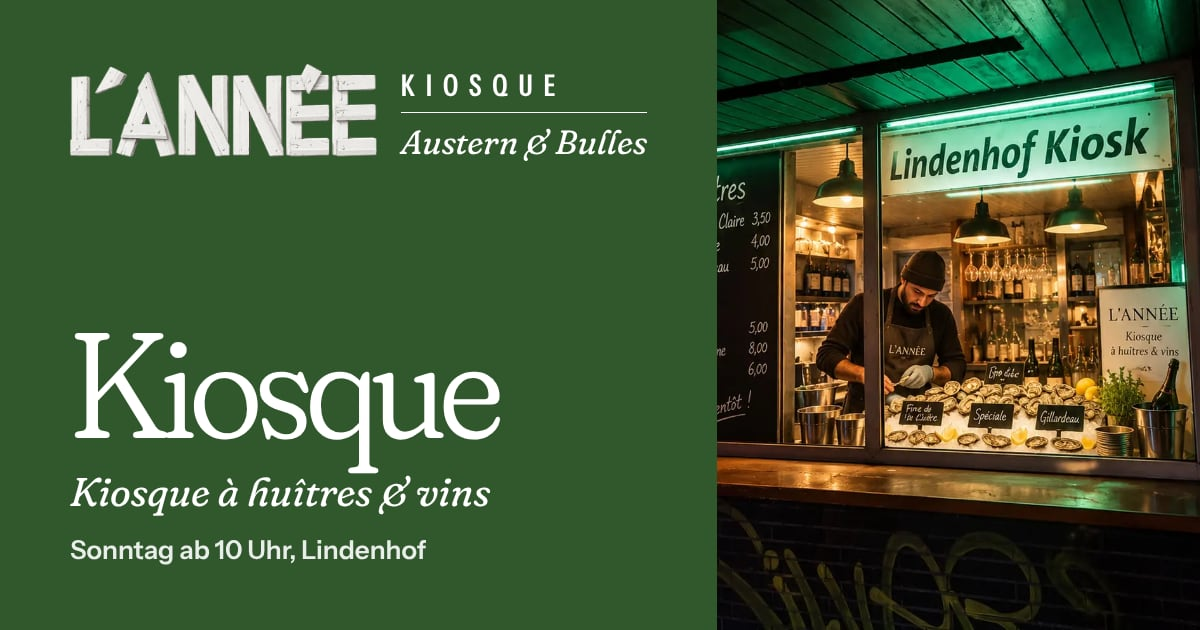
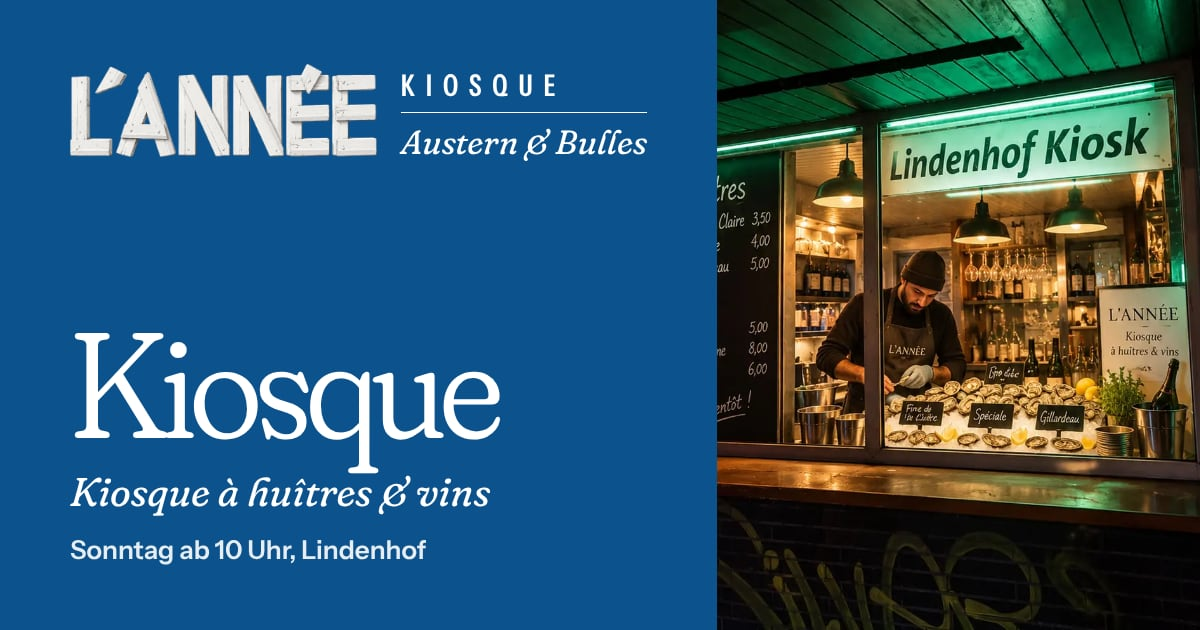
Farben: frische Blautöne statt Grün, drei Orte bleiben getrennt
Neue Palette (nur Blau, Meer/Gischt/Eis), gleiche Rollen wie vorher:
- Bleu nuit #082246: Text, Kopf-/Fußzeile, Garage (Abend)
- Océan #0C528C: Kiosque (Sonntag)
- Marée #167AA2: Marché (Morgen), Nebentext auf Weiß
- Embrun #6BBADA: Linien, Zeichnungen
- Écume #D1F6FE: Akzente, Licht in den Strichzeichnungen
Weiße Schrift auf allen drei Ortsfarben >= 4,8 : 1. CSS-Variablen
--palm/--lime heißen jetzt --embrun/--ecume. Favicons und Share-Bilder
neu erzeugt. Styleguide, CLAUDE.md und Konzept angepasst.

Claude-Session: https://claude.ai/code/session_0135uWaFw3LMVPqJsXwizr86

diff --git a/src/styles/02-base.css b/src/styles/02-base.css
@@ -6,8 +6,8 @@
   --font-display: 'Fraunces', 'Iowan Old Style', 'Palatino Linotype', Palatino, Georgia, serif;
   --font-text: 'Instrument Sans', ui-sans-serif, system-ui, -apple-system, 'Segoe UI', Roboto, sans-serif;
   --phi: 1.618;
-  --line: color-mix(in srgb, var(--palm) 50%, transparent);
-  --line-strong: var(--palm);
+  --line: color-mix(in srgb, var(--embrun) 50%, transparent);
+  --line-strong: var(--embrun);
   --header-h: 4.5rem;
   --ease-out: cubic-bezier(0.16, 1, 0.3, 1);
   --ease-in-out: cubic-bezier(0.7, 0, 0.2, 1);
@@ -123,7 +123,7 @@ button {
 }
 
 ::selection {
-  background: var(--lime);
+  background: var(--ecume);
   color: var(--ink);
 }
 
@@ -194,18 +194,18 @@ main:focus {
   background: var(--bg);
   color: var(--fg);
 }
-.theme-garage { --bg: var(--garage); --fg: var(--blanc); --loc: var(--blanc); --soft: var(--lime); }
-.theme-kiosque { --bg: var(--kiosque); --fg: var(--blanc); --loc: var(--blanc); --soft: var(--lime); }
-.theme-marche { --bg: var(--marche); --fg: var(--blanc); --loc: var(--blanc); --soft: var(--lime); }
-.theme-ink { --bg: var(--ink); --fg: var(--blanc); --loc: var(--lime); }
+.theme-garage { --bg: var(--garage); --fg: var(--blanc); --loc: var(--blanc); --soft: var(--ecume); }
+.theme-kiosque { --bg: var(--kiosque); --fg: var(--blanc); --loc: var(--blanc); --soft: var(--ecume); }
+.theme-marche { --bg: var(--marche); --fg: var(--blanc); --loc: var(--blanc); --soft: var(--ecume); }
+.theme-ink { --bg: var(--ink); --fg: var(--blanc); --loc: var(--ecume); }
 
-.theme-garage-text { --loc: var(--garage); --loc-pale: var(--lime); }
-.theme-kiosque-text { --loc: var(--kiosque); --loc-pale: var(--lime); }
-.theme-marche-text { --loc: var(--marche); --loc-pale: var(--lime); }
+.theme-garage-text { --loc: var(--garage); --loc-pale: var(--ecume); }
+.theme-kiosque-text { --loc: var(--kiosque); --loc-pale: var(--ecume); }
+.theme-marche-text { --loc: var(--marche); --loc-pale: var(--ecume); }
 
-.page--garage { --loc: var(--garage); --loc-pale: var(--lime); --loc-text: var(--garage); }
-.page--kiosque { --loc: var(--kiosque); --loc-pale: var(--lime); --loc-text: var(--kiosque); }
-.page--marche { --loc: var(--marche); --loc-pale: var(--lime); --loc-text: var(--marche); }
+.page--garage { --loc: var(--garage); --loc-pale: var(--ecume); --loc-text: var(--garage); }
+.page--kiosque { --loc: var(--kiosque); --loc-pale: var(--ecume); --loc-text: var(--kiosque); }
+.page--marche { --loc: var(--marche); --loc-pale: var(--ecume); --loc-text: var(--marche); }
 
 /* Seitenübergänge (Chrome, Edge, Safari 18.2+) ----------------------------- */
 

diff --git a/src/styles/05-pages.css b/src/styles/05-pages.css
@@ -6,8 +6,8 @@
 /*
  * Ein Dach, drei Orte: Das Stimmungsbild füllt den ersten Bildschirm. Darauf steht
  * L’ANNÉE in Weiß mit „Austern & Bulles“, unten die drei Orte als Farbbänder
- * (Garage Evergreen, Kiosque Hunter Green, Marché Fern) – jedes ein Link mit
- * Name, Zusatz, Zeit und Ort (ohne Uhren). Beim Scrollen schrumpft das weiße Logo in die grüne
+ * (Garage Bleu nuit, Kiosque Océan, Marché Marée) – jedes ein Link mit
+ * Name, Zusatz, Zeit und Ort (ohne Uhren). Beim Scrollen schrumpft das weiße Logo in die blaue
  * Kopfzeile.
  */
 
@@ -64,7 +64,7 @@
 .hero__bg img {
   object-position: var(--hero-focus, 62% 50%);
 }
-/* Evergreen-Schleier: links oben für Logo und Text, unten als Übergang in die Bänder */
+/* Schleier in Bleu nuit: links oben für Logo und Text, unten als Übergang in die Bänder */
 .hero__stage::before {
   content: '';
   position: absolute;
@@ -244,7 +244,7 @@
 }
 .hero-place__link:hover,
 .hero-place__link:focus-visible {
-  box-shadow: inset 0 0.3rem 0 var(--lime);
+  box-shadow: inset 0 0.3rem 0 var(--ecume);
 }
 .hero-place__arrow {
   grid-area: arrow;
@@ -320,7 +320,7 @@
 /*
  * Jetzt geöffnet / Als Nächstes (live, aus denselben Daten wie der Wochenplan),
  * Zur Karte, Wo wir sind. Gleich gebaut: Kopfzeile in gesperrten Versalien,
- * großer Titel, eine Zeile Text, Pfeil. Weiß mit grüner Linie; beim Darüberfahren Lime Cream.
+ * großer Titel, eine Zeile Text, Pfeil. Weiß mit blauer Linie; beim Darüberfahren Écume.
  */
 .wayfinder {
   margin-bottom: var(--space-xl);
@@ -354,7 +354,7 @@
 }
 .wayfinder__card:hover,
 .wayfinder__card:focus-visible {
-  background: var(--lime);
+  background: var(--ecume);
 }
 .wayfinder__eyebrow {
   grid-area: eyebrow;
@@ -523,7 +523,7 @@
   inset: 0 0 auto;
   height: var(--mini-h);
   border-radius: 1rem;
-  background: var(--lime);
+  background: var(--ecume);
 }
 .plan__slots {
   list-style: none;
@@ -963,7 +963,7 @@
 
 /* Ortsseiten ---------------------------------------------------------------- */
 
-/* Kopf auf der Farbe des Ortes (seit 03.11.2026): Das weiße Holz-Logo im Lockup gehört auf Grün.
+/* Kopf auf der Farbe des Ortes (seit 03.11.2026): Das weiße Holz-Logo im Lockup gehört auf Blau.
    Schrift, Strichzeichnung und Linien sind weiß (theme-garage/-kiosque/-marche). */
 .loc-hero {
   container-type: inline-size;
@@ -1833,7 +1833,7 @@
   display: block;
   width: 4.5rem;
   height: 3.5rem;
-  color: var(--palm);
+  color: var(--embrun);
 }
 .oyster__svg {
   display: block;

diff --git a/src/styles/03-components.css b/src/styles/03-components.css
@@ -175,7 +175,7 @@
 
 /* Die drei Orte als Strichzeichnungen (über den Lockups) ------------------------
  * Linie in currentColor; ist der Ort geöffnet (.is-lit), leuchten die Fenster in
- * Lime Cream, und ein Lichtkegel fällt vor dem Haus auf die Straße.
+ * Écume, und ein Lichtkegel fällt vor dem Haus auf die Straße.
  * Breite = Breite des Logos im Lockup bei gleicher Schriftgröße.
  */
 .venue-art {
@@ -201,9 +201,9 @@
 .venue-art__glass,
 .venue-art__halo,
 .venue-art__soft {
-  fill: var(--lime);
+  fill: var(--ecume);
 }
-.venue-art__stop { stop-color: var(--lime); stop-opacity: 0.55; }
+.venue-art__stop { stop-color: var(--ecume); stop-opacity: 0.55; }
 .venue-art__stop--end { stop-opacity: 0; }
 .venue-art__glass,
 .venue-art__halo,
@@ -220,7 +220,7 @@
 .venue-art.is-lit .venue-art__halo { opacity: 0.8; }
 .venue-art.is-lit .venue-art__soft { opacity: 0.28; }
 .venue-art.is-lit .venue-art__pool { opacity: 1; }
-.venue-art.is-lit .venue-art__bulbs > * { fill: var(--lime); }
+.venue-art.is-lit .venue-art__bulbs > * { fill: var(--ecume); }
 @media (prefers-reduced-motion: no-preference) {
   /* Licht geht an wie eine alte Leuchtröhre: kurz flackern, dann ruhig */
   .venue-art.is-lit .venue-art__glass,
@@ -237,7 +237,7 @@
 /* Bilder -------------------------------------------------------------------- */
 
 .pic {
-  background: var(--palm); /* Platzhalter, bis das Foto geladen ist */
+  background: var(--embrun); /* Platzhalter, bis das Foto geladen ist */
   overflow: hidden;
 }
 .pic img {
@@ -269,7 +269,7 @@
   line-height: 1.1;
   letter-spacing: 0.02em;
 }
-/* Grüne Fläche, weiße Schrift */
+/* Blaue Fläche, weiße Schrift */
 .tag--garage { background: var(--garage); color: var(--blanc); }
 .tag--kiosque { background: var(--kiosque); color: var(--blanc); }
 .tag--marche { background: var(--marche); color: var(--blanc); }
@@ -355,7 +355,7 @@
   margin: 0;
   padding: 0.6em 1.15em 0.6em 0.95em;
   border-radius: 1.4em;
-  background: var(--lime);
+  background: var(--ecume);
   color: var(--ink);
   font-size: 0.9375rem;
   line-height: 1.35;

diff --git a/src/styles/04-layout.css b/src/styles/04-layout.css
@@ -5,7 +5,7 @@
 
 /* Kopfzeile ------------------------------------------------------------------ */
 
-/* Grüne Kopfzeile (Evergreen) mit weißem Logo und weißer Schrift */
+/* Blaue Kopfzeile (Bleu nuit) mit weißem Logo und weißer Schrift */
 .site-header {
   position: sticky;
   top: 0;
@@ -107,10 +107,10 @@
   color: var(--blanc);
 }
 .nav__link:hover {
-  color: var(--lime);
+  color: var(--ecume);
 }
 .nav__link[aria-current='page'] {
-  color: var(--lime);
+  color: var(--ecume);
   border-bottom-color: currentColor;
 }
 
@@ -136,7 +136,7 @@
 }
 .lang a:hover {
   color: var(--ink);
-  background: var(--lime);
+  background: var(--ecume);
 }
 .lang a[aria-current='true'] {
   color: var(--blanc);
@@ -162,7 +162,7 @@
   transition: color 0.2s;
 }
 .menu-toggle:hover {
-  color: var(--lime);
+  color: var(--ecume);
 }
 .menu-toggle__bars {
   position: relative;
@@ -271,7 +271,7 @@
   display: block;
   margin: 0 0 var(--space-l);
 }
-/* Das Holz-Logo groß über die volle Breite, weiß auf Evergreen */
+/* Das Holz-Logo groß über die volle Breite, weiß auf Bleu nuit */
 .site-footer__logo {
   width: 100%;
   height: auto;

diff --git a/CLAUDE.md b/CLAUDE.md
@@ -9,11 +9,11 @@ Website der Dachmarke L’ANNÉE (Austern & Bulles, Mannheim) mit Garage, Kiosqu
 - Die Live-Domain `1898.ma` nicht anfassen (Domains, DNS, Weiterleitungen), außer der Nutzer verlangt es ausdrücklich.
 - Inhalte immer in allen drei Sprachen pflegen: `src/content/i18n/{de,fr,en}.mjs`. Deutsch ist führend.
 - Keine Cookies, kein Tracking, keine externen Requests (CSP in `vercel.json`). Karten nur als Links.
-- **Nur Grün:** Evergreen #132A13, Hunter Green #31572C, Fern #4F772D, Palm Leaf #90A955, Lime Cream #ECF39E und Weiß. Entweder grüne Fläche mit weißer Schrift oder weiße Fläche mit grüner Schrift; nichts Schwarzes, nichts Graues (statt Schwarz: Evergreen). In CSS nur die Variablen aus `tokens.mjs` (`--ink`, `--garage`, `--kiosque`, `--marche`, `--brand`, `--muted`, `--palm`, `--lime`, `--blanc`), keine festen Farbwerte.
+- **Nur Blau** (Vorgabe 03.11.2026, ersetzt „nur Grün“): frische Meeres-Blautöne Bleu nuit #082246, Océan #0C528C, Marée #167AA2, Embrun #6BBADA, Écume #D1F6FE und Weiß. Entweder blaue Fläche mit weißer Schrift oder weiße Fläche mit blauer Schrift; nichts Schwarzes, nichts Graues (statt Schwarz: Bleu nuit). **Die drei Orte bleiben klar getrennt:** Garage = Bleu nuit (Abend), Kiosque = Océan (Sonntag), Marché = Marée (Morgen). Embrun nur für Linien/Zeichnungen, Écume für Akzente (aktiv/hover, Licht). In CSS nur die Variablen aus `tokens.mjs` (`--ink`, `--garage`, `--kiosque`, `--marche`, `--brand`, `--muted`, `--embrun`, `--ecume`, `--blanc`), keine festen Farbwerte. Grün kommt nicht mehr vor.
 - **Slogan am Logo immer übersetzt** (Vorgabe 01.11.2026): DE „Austern & Bulles“, FR „Huîtres & Bulles“, EN „Oysters & Bulles“ (`SITE.taglines`; gilt für Kopfzeile, Hero und Lockups). „Bulles“ bleibt französisch, nie „Bläschen“.
 - **Keine Uhren (Signets) mehr – nirgends** (Vorgabe 03.11.2026): nicht in Navigation, Fußzeile, Zitaten, Karte (Filter, Tags), Kontakt, „Weitere Orte“, Styleguide oder auf den Share-Bildern. Die Komponente `signet()` ist gelöscht; nicht wieder einführen.
-- **Logo = weiße Holzbuchstaben** (Vorgabe 03.11.2026): freigestelltes Rasterbild, Quelle `assets-src/logo-lannee-holz.png`, Varianten mit `npm run images -- logo-lannee` (schneidet zu, macht die Buchstaben voll deckend, AVIF/WebP 240–1563 px). Eingebunden über `logo()` in `components.mjs` als `<picture>`; `src/icons/logo-raw.svg` liefert nur noch das Favicon. **Weiß gehört auf Grün:** Das Logo steht nie auf Weiß – Kopfzeile, Hero, Fußzeile und alle Lockups (auch die Köpfe der Ortsseiten) liegen auf Grün. Die Wander-Animation (`initLogoMorph()`) bleibt wie sie ist.
-- **Kopfzeile grün** (Evergreen) mit **weißem Logo** und weißer Navigation (aktiv/hover Lime Cream); auch das große Logo im Hero ist weiß (Vorgabe 31.10.2026). Das mobile Menü bleibt weiß mit grüner Schrift.
+- **Logo = weiße Holzbuchstaben** (Vorgabe 03.11.2026): freigestelltes Rasterbild, Quelle `assets-src/logo-lannee-holz.png`, Varianten mit `npm run images -- logo-lannee` (schneidet zu, macht die Buchstaben voll deckend, AVIF/WebP 240–1563 px). Eingebunden über `logo()` in `components.mjs` als `<picture>`; `src/icons/logo-raw.svg` liefert nur noch das Favicon. **Weiß gehört auf Blau:** Das Logo steht nie auf Weiß – Kopfzeile, Hero, Fußzeile und alle Lockups (auch die Köpfe der Ortsseiten) liegen auf Blau. Die Wander-Animation (`initLogoMorph()`) bleibt wie sie ist.
+- **Kopfzeile blau** (Bleu nuit) mit **weißem Logo** und weißer Navigation (aktiv/hover Écume); auch das große Logo im Hero ist weiß (Vorgabe 31.10.2026). Das mobile Menü bleibt weiß mit blauer Schrift.
 - **Kopfzeile:** Neben dem Logo steht der Slogan (feine Linie dazwischen) – auf allen Bildschirmbreiten. Auf der Startseite wandern großes Logo und Slogan beim Scrollen skaliert in ihre Endposition in der Kopfzeile (Logo · Linie · Slogan), im Vordergrund über allem; angekommen blendet die Trennlinie ein (Vorgabe 01.11.2026, bestätigt 03.11.2026).
 - **Menü-Schalter mobil = nur Hamburger** (drei Striche, weiß, ohne Text „Menü“ und ohne Rahmen; Vorgabe 03.11.2026). „Menü“ steht nur unsichtbar für Screenreader im Link.
 - **Hinweis „Diese Webseite dient zur reinen Darstellung und ist fiktiv.“ = schlichte Textzeile ganz unten in der Fußzeile** (unter einer feinen Linie; Vorgabe 03.11.2026). Kein Kreis/Störer, nichts Fixiertes, das über dem Inhalt schwebt.
@@ -22,9 +22,9 @@ Website der Dachmarke L’ANNÉE (Austern & Bulles, Mannheim) mit Garage, Kiosqu
 - **Fußzeile ohne „Gestaltung: Grafitecture“** (Vorgabe 01.11.2026); die Agentur steht nur im Grafitecture-Feld in Impressum und Datenschutz.
 - **Wochenplan** zeigt nur Tage mit Öffnung, keine Zeile „Mo – Do geschlossen“ (Vorgabe 01.11.2026).
 - **Hero = Filmsequenz** (Higgsfield AI, Heimkino-Look 50er/60er, ruhig, Zeitlupe) aus `public/film/lannee-film-{quer,hoch}.{webm,mp4}`, Standbild `hero-film`; darauf Logo, Slogan und die Headline groß und linksbündig, unten die drei Ortsbänder leicht transparent und ohne Uhren. Scroll-Inszenierung: Die Bühne bleibt stehen, alle Inhalte blenden aus, der Film steht eine Weile voll im Bild, dann scrollt er weg (`initHeroScroll()`). **Kein Pause-/Play-Knopf auf dem Film** (Vorgabe 03.11.2026); **kein Live-Schild („Als Nächstes“/„Jetzt geöffnet“) auf den Ortsbändern im Hero** (Vorgabe 03.11.2026), der Live-Status steht nur in der Kachel darunter; bei reduzierter Bewegung oder Datensparmodus bleibt das Standbild. Live-Anzeige, „Zur Karte“ und „Wo wir sind“ stehen als drei gleiche Kacheln über „Ein Wochenende, drei Orte“.
-- **Orte als Strichzeichnungen über den Lockups** (Vorgabe 03.11.2026): Startseite „drei Orte“ und Ortsseiten zeigen über dem Subbrand-Lockup Garage (Tore, Lichterkette), Kiosque (Markise, Hängelampen) und Marché-Wagen (Vitrine unterm Marktschirm) als feine Linie in `currentColor`, weiß auf der Farbe des Ortes (seit 03.11.2026 auch auf den Ortsseiten). Hat der Ort geöffnet, geht das Licht an: Fenster in Lime Cream, Schein darum, Lichtkegel auf die Straße. Vorschau ohne Öffnungszeit: `?licht=an`.
+- **Orte als Strichzeichnungen über den Lockups** (Vorgabe 03.11.2026): Startseite „drei Orte“ und Ortsseiten zeigen über dem Subbrand-Lockup Garage (Tore, Lichterkette), Kiosque (Markise, Hängelampen) und Marché-Wagen (Vitrine unterm Marktschirm) als feine Linie in `currentColor`, weiß auf der Farbe des Ortes (seit 03.11.2026 auch auf den Ortsseiten). Hat der Ort geöffnet, geht das Licht an: Fenster in Écume, Schein darum, Lichtkegel auf die Straße. Vorschau ohne Öffnungszeit: `?licht=an`.
 - „Grafitecture“ immer verlinken: `https://www.grafitecture.de/` (mit www), öffnet in neuem Fenster. Im Mini-Markup `[Grafitecture](https://www.grafitecture.de/)`, sonst `SITE.agency`.
-- **Grafitecture-Feld** (Lime-Fläche mit Logo, „Marken mit KI.“, Link auf grafitecture.de): steht immer ganz unten in Impressum und Datenschutz (DE/FR/EN), eingebunden in `src/pages/legal.mjs`. Quelle ist das Kit `kit/grafitecture-credit/` (README dort), der Build hängt dessen CSS an `site.css` an. Die Farben des Feldes (#dafd55, #435960, Weiß) gehören der Agentur und sind die **einzige Ausnahme** von „nur Grün“ und „nur Token-Variablen“. Am Feld nichts an L’ANNÉE anpassen; Änderungen im Kit machen (gilt für alle Grafitecture-Websites).
+- **Grafitecture-Feld** (Lime-Fläche mit Logo, „Marken mit KI.“, Link auf grafitecture.de): steht immer ganz unten in Impressum und Datenschutz (DE/FR/EN), eingebunden in `src/pages/legal.mjs`. Quelle ist das Kit `kit/grafitecture-credit/` (README dort), der Build hängt dessen CSS an `site.css` an. Die Farben des Feldes (#dafd55, #435960, Weiß) gehören der Agentur und sind die **einzige Ausnahme** von „nur Blau“ und „nur Token-Variablen“. Am Feld nichts an L’ANNÉE anpassen; Änderungen im Kit machen (gilt für alle Grafitecture-Websites).
 
 ## Wo was liegt
 
